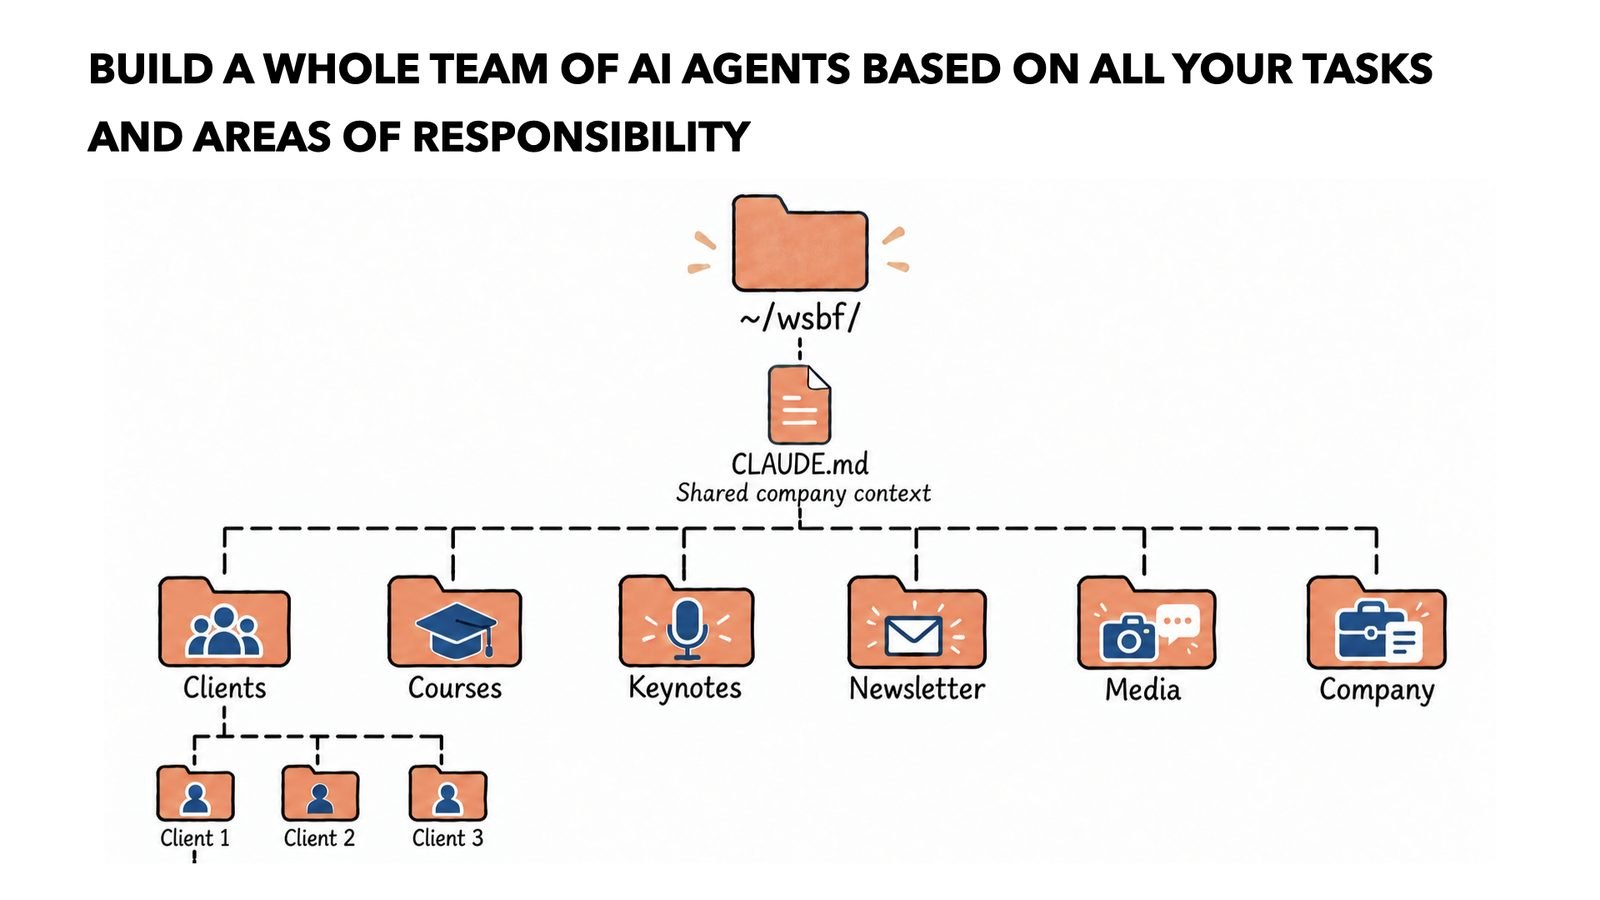
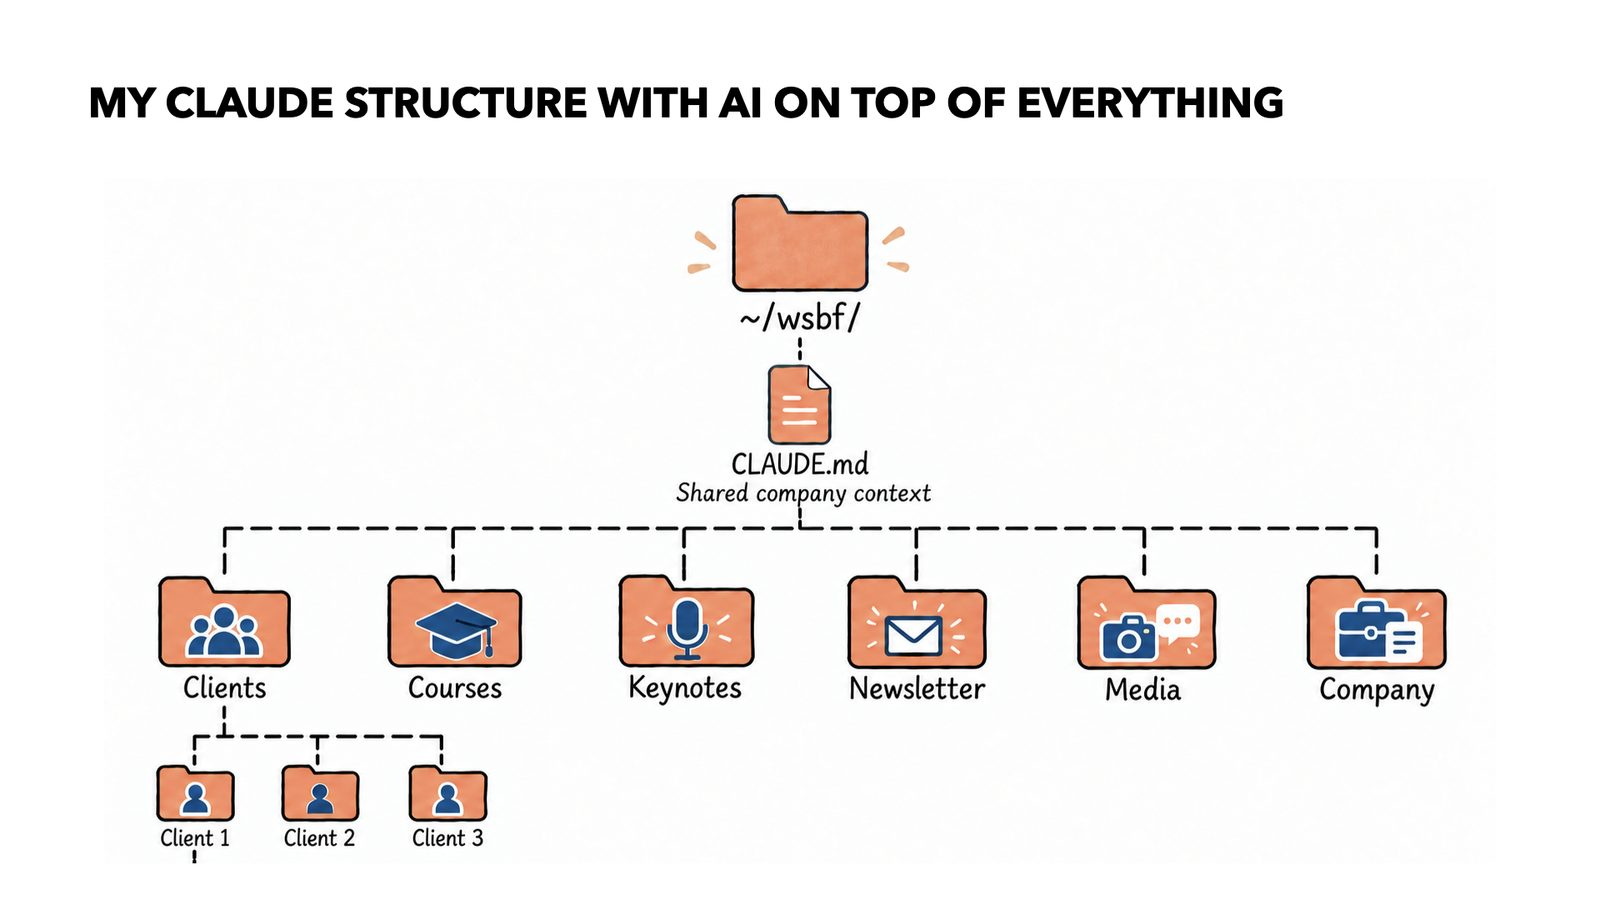
Add fullscreen presenting mode; update slide 10 heading

Changed region(s): [[0.0312, 0.0622, 0.9062, 0.1867]]

diff --git a/slides.html b/slides.html
@@ -95,6 +95,34 @@
   @media (max-width:640px){
     .controls .hint{display:none}
   }
+
+  /* fullscreen presenting mode */
+  #viewer:fullscreen,
+  #viewer:-webkit-full-screen{
+    background:#000;display:flex;flex-direction:column;
+    align-items:center;justify-content:center;padding:0;max-width:none;
+  }
+  #viewer:fullscreen .frame,
+  #viewer:-webkit-full-screen .frame{
+    border:none;width:100%;height:100vh;aspect-ratio:auto;max-width:100vw;
+  }
+  #viewer:fullscreen .frame img,
+  #viewer:-webkit-full-screen .frame img{background:#000}
+  #viewer:fullscreen .controls,
+  #viewer:-webkit-full-screen .controls{
+    position:fixed;left:0;right:0;bottom:0;margin:0;
+    padding:14px 28px;background:linear-gradient(transparent,rgba(0,0,0,.55));
+  }
+  #viewer:fullscreen .controls button,
+  #viewer:-webkit-full-screen .controls button{background:rgba(255,255,255,.15);backdrop-filter:blur(4px)}
+  #viewer:fullscreen .controls button:hover,
+  #viewer:-webkit-full-screen .controls button:hover{background:var(--mark)}
+  #viewer:fullscreen .controls .count,
+  #viewer:-webkit-full-screen .controls .count{color:#cfd2d8}
+  #viewer:fullscreen .controls .hint,
+  #viewer:-webkit-full-screen .controls .hint{color:#9a9fa8}
+  #viewer:fullscreen .dots,
+  #viewer:-webkit-full-screen .dots{display:none}
 </style>
 </head>
 <body>
@@ -114,14 +142,15 @@
   <h1>From asking to building</h1>
   <p class="standfirst">The 1:02&ndash;1:25 PM talk, slide by slide. Use the arrows or the arrow keys to move through it.</p>
 
-  <div class="viewer">
+  <div class="viewer" id="viewer">
     <div class="frame" id="frame">
       <!-- images injected by script -->
     </div>
     <div class="controls">
       <button id="prev" aria-label="Previous slide">&larr; Prev</button>
       <button id="next" aria-label="Next slide">Next &rarr;</button>
-      <span class="hint">Use the arrow keys too</span>
+      <button id="fullscreen" aria-label="Toggle fullscreen">&#x26F6; Fullscreen</button>
+      <span class="hint">Arrow keys move, Esc exits</span>
       <span class="count" id="count"></span>
     </div>
     <div class="dots" id="dots"></div>
@@ -171,6 +200,32 @@
   document.addEventListener('keydown', (e) => {
     if (e.key === 'ArrowLeft') show(current - 1);
     if (e.key === 'ArrowRight') show(current + 1);
+    if (e.key === 'f' || e.key === 'F') toggleFullscreen();
+  });
+
+  const viewer = document.getElementById('viewer');
+  const fsBtn = document.getElementById('fullscreen');
+
+  function isFullscreen() {
+    return document.fullscreenElement || document.webkitFullscreenElement;
+  }
+
+  function toggleFullscreen() {
+    if (!isFullscreen()) {
+      if (viewer.requestFullscreen) viewer.requestFullscreen();
+      else if (viewer.webkitRequestFullscreen) viewer.webkitRequestFullscreen();
+    } else {
+      if (document.exitFullscreen) document.exitFullscreen();
+      else if (document.webkitExitFullscreen) document.webkitExitFullscreen();
+    }
+  }
+
+  fsBtn.addEventListener('click', toggleFullscreen);
+  document.addEventListener('fullscreenchange', () => {
+    fsBtn.textContent = isFullscreen() ? '✕ Exit fullscreen' : '⛶ Fullscreen';
+  });
+  document.addEventListener('webkitfullscreenchange', () => {
+    fsBtn.textContent = isFullscreen() ? '✕ Exit fullscreen' : '⛶ Fullscreen';
   });
 
   show(0);
